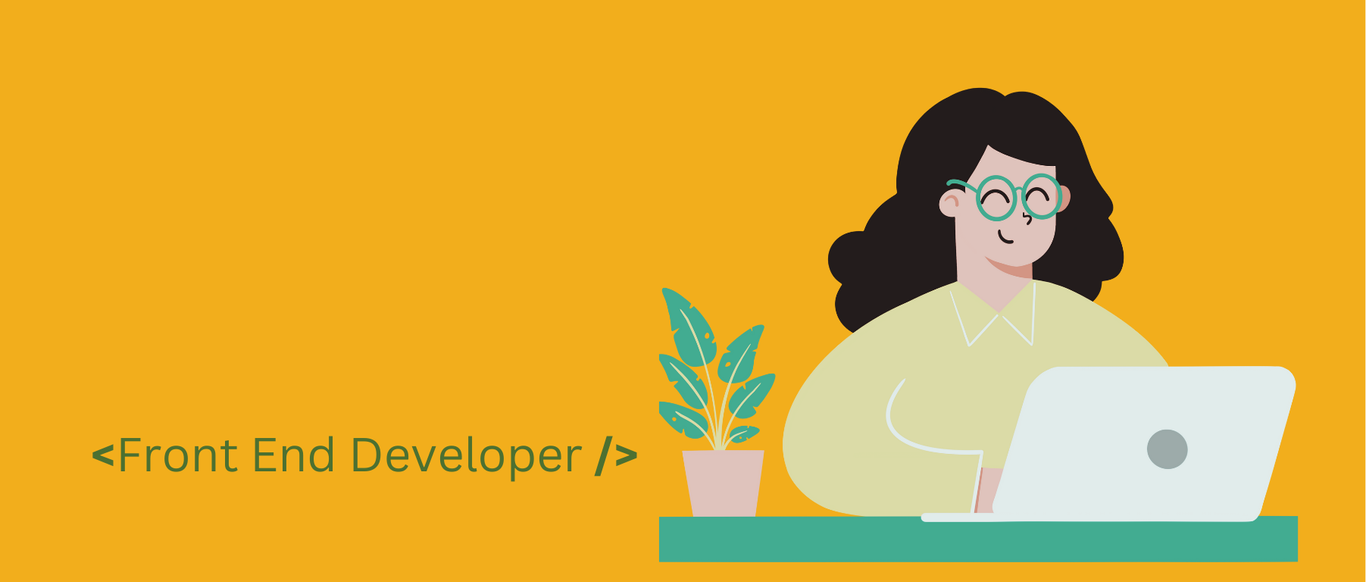
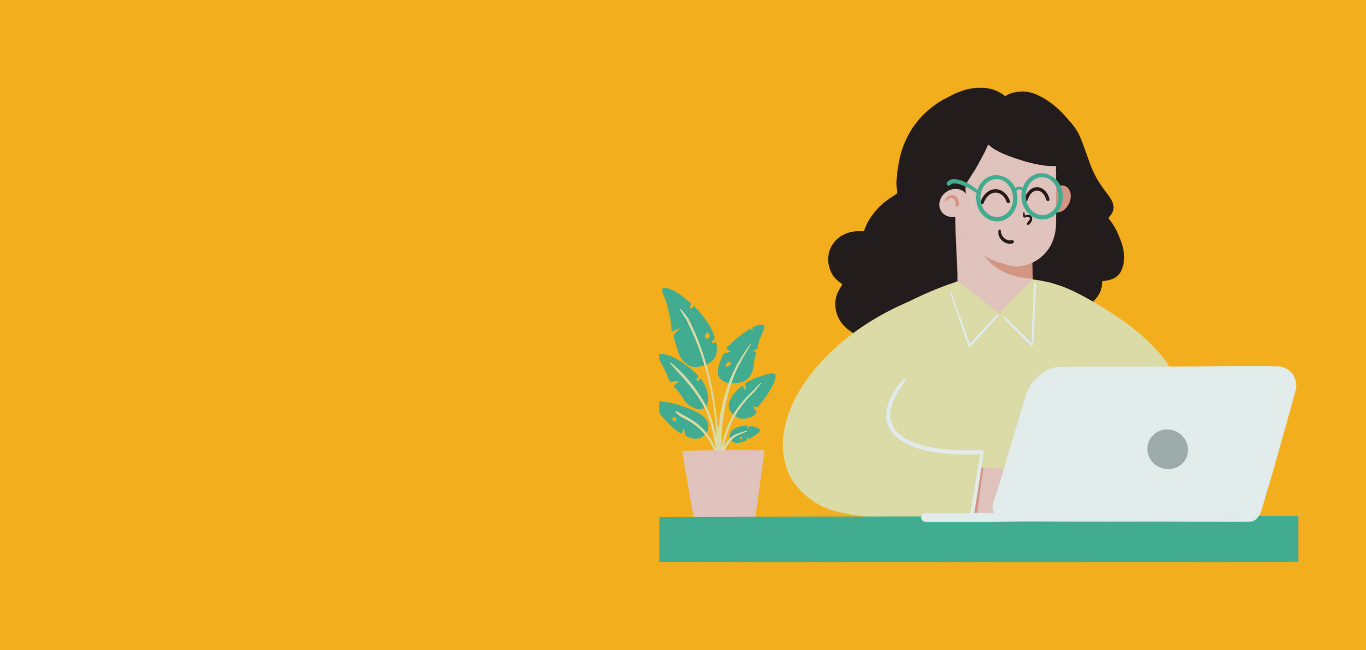
minor updates

Changed region(s): [[0.0615, 0.1237, 0.9531, 0.9897], [0.6457, 0.1856, 0.6764, 0.2474]]

diff --git a/index.html b/index.html
@@ -17,19 +17,24 @@
         <header class="header row">
             <div class="header-content col">
 
-                <div class="portfolio-nav">
-                    <ul class="nav justify-content-end">
-                        <li class="nav-item ">
-                            <a class="nav-link skills" href="#skills">skills</a>
-                        </li>
-                        <li class="nav-item">
-                            <a class="nav-link exp" href="#projects">Experience</a>
-                        </li>
-                        <li class="nav-item">
-                            <a class="nav-link cont" href="#contact">Contact Me</a>
-                        </li>
-                    </ul>
-                </div>
+                <nav class="navbar navbar-expand-lg navbar-light">
+                    <div class="container-fluid">
+                        <button class="navbar-toggler" type="button" data-bs-toggle="collapse"
+                            data-bs-target="#navbarNav" aria-controls="navbarNav" aria-expanded="true"
+                            aria-label="Toggle navigation">
+                            <span class="navbar-toggler-icon"></span>
+                        </button>
+                        <div class="collapse navbar-collapse justify-content-end" id="navbarNav">
+                            <div class="navbar-nav">
+                                <a class="nav-link skills active" aria-current="page" href="#skills">Skills</a>
+
+                                <a class="nav-link exp" href="#projects">Experience</a>
+
+                                <a class="nav-link cont" href="#contact">Contact Me</a>
+                            </div>
+                        </div>
+                    </div>
+                </nav>
 
                 <div class="data-block">
                     <h1>Hi, I'm Hema </h1>
@@ -43,6 +48,7 @@
                         complex
                         <b> D3-based visualizations </b>for data-driven applications.
                     </p>
+                    <p class="fTag">&#60;Front End Developer/&#62;</p>
                 </div>
             </div>
             <div class="arc">
@@ -121,7 +127,8 @@
                                         d="M8 16s6-5.686 6-10A6 6 0 0 0 2 6c0 4.314 6 10 6 10m0-7a3 3 0 1 1 0-6 3 3 0 0 1 0 6" />
                                 </svg>
                             </span>
-                            <span>(2015 Dec - 2018 April) - Innominds Software Pvt Ltd. - Assosiate Software Engineer</span>
+                            <span>(2015 Dec - 2018 April) - Innominds Software Pvt Ltd. - Assosiate Software
+                                Engineer</span>
                         </h5>
                         <p><b>Projects</b></p>
                         <ul>
@@ -188,12 +195,16 @@
 
                 </div>
                 <div class="copyright">
-                    copyright @ 2015 HEMA
+
                 </div>
             </div>
         </div>
         <!-- content ends-->
     </div>
 </body>
+<script src="https://cdn.jsdelivr.net/npm/bootstrap@5.1.3/dist/js/bootstrap.bundle.min.js"
+integrity="sha384-ka7Sk0Gln4gmtz2MlQnikT1wXgYsOg+OMhuP+IlRH9sENBO0LRn5q+8nbTov4+1p"
+crossorigin="anonymous"></script>
+<script src="./main.js"></script>
 
 </html>

diff --git a/styles.css b/styles.css
@@ -27,7 +27,6 @@ body {
   position: absolute;
   height: inherit;
   width: 100%;
-  z-index: 2;
   padding: 0 !important;
   background-image: url("./public/profile-bg.png");
   background-color: #f2ae1c;
@@ -35,20 +34,6 @@ body {
   background-position-y: top;
   background-repeat: no-repeat;
   background-size: contain;
-}
-.routing-block {
-  display: grid;
-  grid-template-columns: 1fr 6fr;
-  justify-content: space-between;
-  align-items: center;
-  height: 70px;
-  width: 100%;
-  padding-right: 80px;
-  background: #e5d0ac;
-  position: relative;
-  z-index: 3;
-  box-shadow: 0 4px 8px 0 rgba(0, 0, 0, 0.2), 0 6px 20px 0 rgba(0, 0, 0, 0.19);
-  position: fixed;
 }
 .data-block {
   display: flex;
@@ -68,12 +53,13 @@ body {
   padding-bottom: 20px;
 }
 .data-block p {
-  font-size: 1rem;
+  font-size: 1.2rem;
 }
 .nav-link {
-  color: #ffffff;
+  color: #ffffff !important;
   font-family: "Lato", serif;
   font-weight: normal;
+  font-size: 1.2rem;
 }
 .nav-link:hover {
   color: #ffffff;
@@ -88,11 +74,6 @@ body {
 }
 .nav-link.cont:hover {
   background-color: #2d4059;
-}
-.portfolio-nav {
-  height: 70px;
-  padding-top: 20px;
-  padding-right: 60px;
 }
 .arc {
   width: 100%;
@@ -199,26 +180,37 @@ body {
   border-radius: 20px;
   margin-bottom: 35px;
 }
+p.fTag {
+  font-size: 2.3rem;
+  color: #2a7a65;
+  font-weight: 600;
+}
 
 /* breakpoints for mobile */
 
-@media ((min-width: 300px) and (max-width: 992px)) {
+@media ((min-width: 300px) and (max-width: 800px)) {
+  .header-content {
+    background-image: none;
+  }
   .arc {
     display: none;
   }
   .data-block {
-    padding: 130px 30px 20px;
+    padding-top: 100px;
     width: 100%;
-    margin: 20px;
+    margin: 0;
+  }
+  p.fTag {
+    font-size: 1.7rem;
+  }
+  .data-block h1 {
+    font-size: 3rem;
   }
   .header {
     height: 75vh;
   }
   .content .skills-container {
     padding: 0px 20px 40px;
-  }
-  .portfolio-nav {
-    display: none;
   }
   .content .skills {
     height: 65vh;
@@ -229,5 +221,19 @@ body {
   }
   .contact .mediums {
     width: 75%;
+  }
+  .data-block p {
+    font-size: 1rem;
+  }
+  @media ((min-width: 800px) and (max-width: 1300px)) { 
+    .data-block {
+      margin-top: 2%;
+    }
+    .arc {
+      bottom: -60px;
+    }
+    .skills .arc {
+      bottom: -2px;
+    }
   }
 }

diff --git a/main.js b/main.js
@@ -1,0 +1,7 @@
+
+
+window.onload = loadDate();
+
+function loadDate () { 
+    document.getElementsByClassName('copyright')[0].innerHTML = "Copyright @ "+new Date().getFullYear();
+ }
